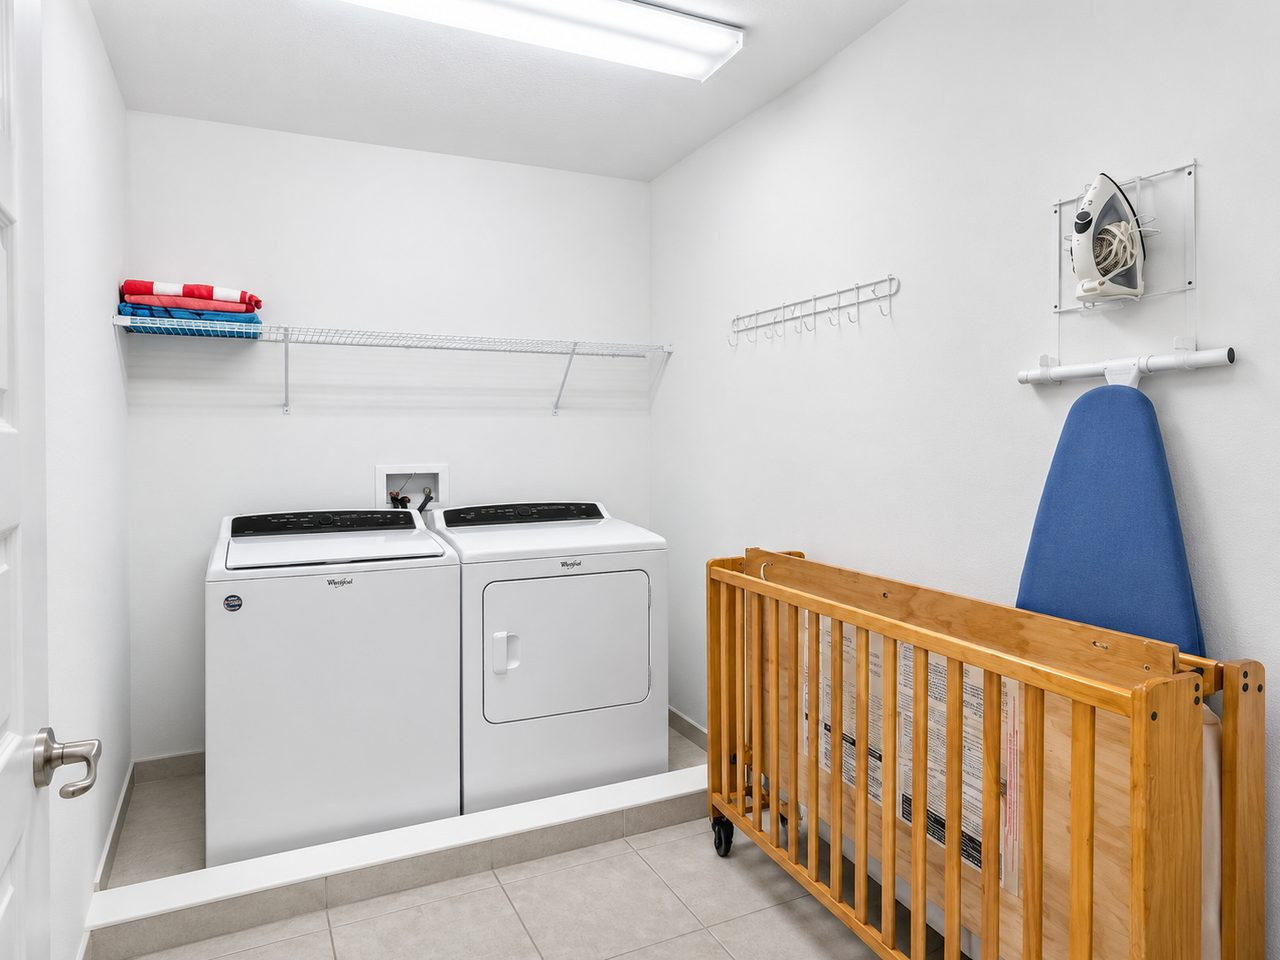
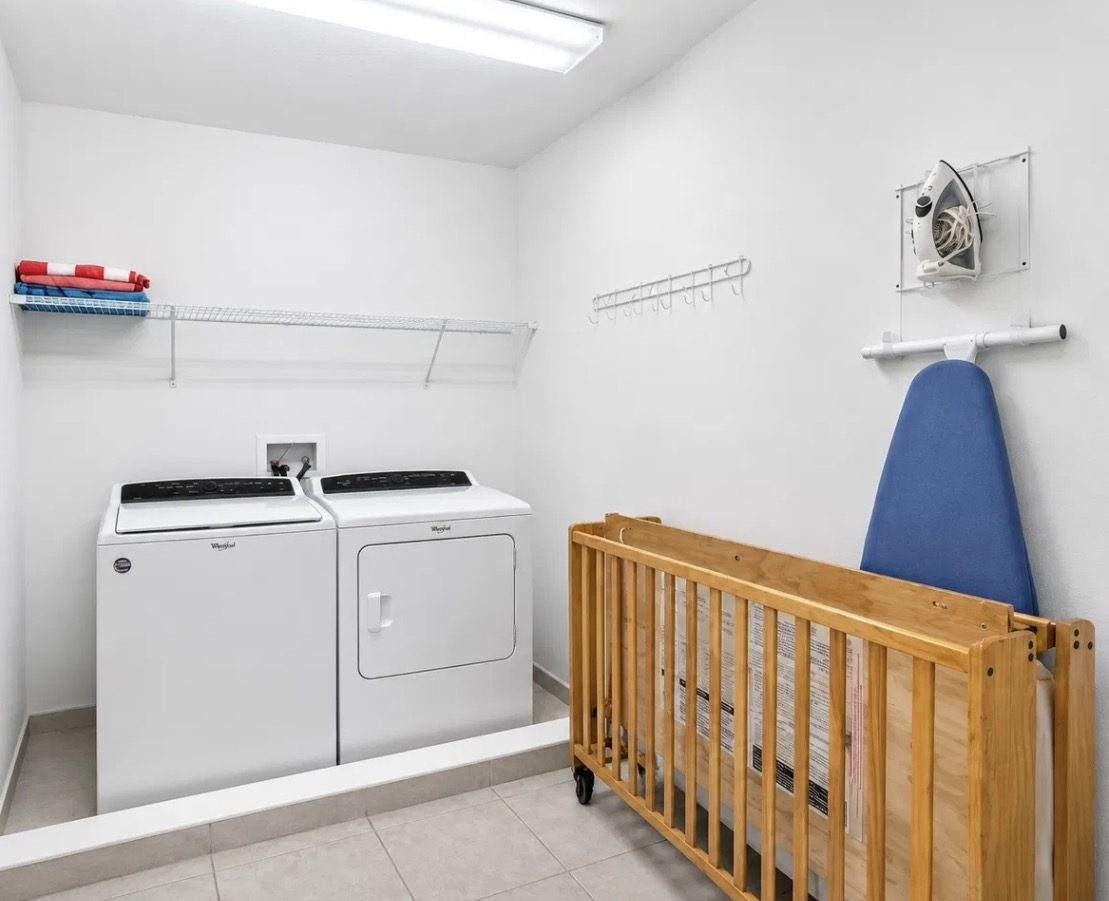
Laundry room: cropped version without the door

diff --git a/index.html b/index.html
@@ -9,7 +9,7 @@
 
   <meta property="og:title" content="Villa Serena · 8-Bedroom Private Pool Villa">
   <meta property="og:description" content="8 bedrooms · 8 bathrooms · 13 beds · private pool. Book your family's Orlando stay direct.">
-  <meta property="og:image" content="assets/img/pool-lanai.jpg?v=13">
+  <meta property="og:image" content="assets/img/pool-lanai.jpg?v=14">
   <meta property="og:type" content="website">
 
   <link rel="icon" href="assets/favicon.svg" type="image/svg+xml">
@@ -17,8 +17,8 @@
   <link rel="preconnect" href="https://fonts.gstatic.com" crossorigin>
   <link href="https://fonts.googleapis.com/css2?family=Newsreader:ital,opsz,wght@0,6..72,400;0,6..72,500;1,6..72,400&family=Instrument+Sans:wght@400;500;600&display=swap" rel="stylesheet">
 
-  <link rel="preload" as="image" href="assets/img/pool-lanai-1616.webp?v=13"
-        imagesrcset="assets/img/pool-lanai-640.webp?v=13 640w, assets/img/pool-lanai-1024.webp?v=13 1024w, assets/img/pool-lanai-1616.webp?v=13 1616w"
+  <link rel="preload" as="image" href="assets/img/pool-lanai-1616.webp?v=14"
+        imagesrcset="assets/img/pool-lanai-640.webp?v=14 640w, assets/img/pool-lanai-1024.webp?v=14 1024w, assets/img/pool-lanai-1616.webp?v=14 1616w"
         imagesizes="100vw" type="image/webp">
   <link rel="stylesheet" href="css/styles.css">
 </head>
@@ -79,9 +79,9 @@
   <div class="hero-media">
     <picture>
       <source type="image/webp"
-              srcset="assets/img/pool-lanai-640.webp?v=13 640w, assets/img/pool-lanai-1024.webp?v=13 1024w, assets/img/pool-lanai-1616.webp?v=13 1616w"
+              srcset="assets/img/pool-lanai-640.webp?v=14 640w, assets/img/pool-lanai-1024.webp?v=14 1024w, assets/img/pool-lanai-1616.webp?v=14 1616w"
               sizes="100vw">
-      <img src="assets/img/pool-lanai.jpg?v=13" alt="The villa's private pool and spa with sun loungers and a covered lanai" width="1616" height="967" fetchpriority="high">
+      <img src="assets/img/pool-lanai.jpg?v=14" alt="The villa's private pool and spa with sun loungers and a covered lanai" width="1616" height="967" fetchpriority="high">
     </picture>
   </div>
   <div class="hero-shade" aria-hidden="true"></div>
@@ -117,14 +117,14 @@
     <div class="welcome-media reveal">
       <figure class="wm-main">
         <picture>
-          <source type="image/webp" srcset="assets/img/exterior-front-640.webp?v=13 640w, assets/img/exterior-front-1024.webp?v=13 1024w, assets/img/exterior-front-1206.webp?v=13 1206w" sizes="(min-width: 960px) 40vw, 90vw">
-          <img src="assets/img/exterior-front.jpg?v=13" alt="Front exterior of the two-storey villa with a paver driveway" width="1206" height="712" loading="lazy" decoding="async">
+          <source type="image/webp" srcset="assets/img/exterior-front-640.webp?v=14 640w, assets/img/exterior-front-1024.webp?v=14 1024w, assets/img/exterior-front-1206.webp?v=14 1206w" sizes="(min-width: 960px) 40vw, 90vw">
+          <img src="assets/img/exterior-front.jpg?v=14" alt="Front exterior of the two-storey villa with a paver driveway" width="1206" height="712" loading="lazy" decoding="async">
         </picture>
       </figure>
       <figure class="wm-accent">
         <picture>
-          <source type="image/webp" srcset="assets/img/dining-living-640.webp?v=13 640w, assets/img/dining-living-1024.webp?v=13 1024w" sizes="(min-width: 960px) 22vw, 50vw">
-          <img src="assets/img/dining-living.jpg?v=13" alt="Open-plan dining area with a large table and the living room beyond" width="2560" height="1920" loading="lazy" decoding="async">
+          <source type="image/webp" srcset="assets/img/dining-living-640.webp?v=14 640w, assets/img/dining-living-1024.webp?v=14 1024w" sizes="(min-width: 960px) 22vw, 50vw">
+          <img src="assets/img/dining-living.jpg?v=14" alt="Open-plan dining area with a large table and the living room beyond" width="2560" height="1920" loading="lazy" decoding="async">
         </picture>
       </figure>
           </div>
@@ -135,15 +135,15 @@
 <section class="photo-band" aria-label="The kitchen and living room">
   <figure>
     <picture>
-      <source type="image/webp" srcset="assets/img/kitchen-640.webp?v=13 640w, assets/img/kitchen-1024.webp?v=13 1024w, assets/img/kitchen-1206.webp?v=13 1206w" sizes="(min-width: 760px) 50vw, 100vw">
-      <img src="assets/img/kitchen.jpg?v=13" alt="Kitchen with dark cabinets, stainless appliances and an island with four bar stools" width="1206" height="711" loading="lazy" decoding="async">
+      <source type="image/webp" srcset="assets/img/kitchen-640.webp?v=14 640w, assets/img/kitchen-1024.webp?v=14 1024w, assets/img/kitchen-1206.webp?v=14 1206w" sizes="(min-width: 760px) 50vw, 100vw">
+      <img src="assets/img/kitchen.jpg?v=14" alt="Kitchen with dark cabinets, stainless appliances and an island with four bar stools" width="1206" height="711" loading="lazy" decoding="async">
     </picture>
     <figcaption>Kitchen</figcaption>
   </figure>
   <figure>
     <picture>
-      <source type="image/webp" srcset="assets/img/living-room-640.webp?v=13 640w, assets/img/living-room-1024.webp?v=13 1024w, assets/img/living-room-1600.webp?v=13 1600w" sizes="(min-width: 760px) 50vw, 100vw">
-      <img src="assets/img/living-room.jpg?v=13" alt="Living room with sectional sofa and sliding doors to the pool" width="2560" height="1920" loading="lazy" decoding="async">
+      <source type="image/webp" srcset="assets/img/living-room-640.webp?v=14 640w, assets/img/living-room-1024.webp?v=14 1024w, assets/img/living-room-1600.webp?v=14 1600w" sizes="(min-width: 760px) 50vw, 100vw">
+      <img src="assets/img/living-room.jpg?v=14" alt="Living room with sectional sofa and sliding doors to the pool" width="2560" height="1920" loading="lazy" decoding="async">
     </picture>
     <figcaption>Living room</figcaption>
   </figure>
@@ -250,20 +250,20 @@
     <div class="villa-band reveal">
       <figure>
         <picture>
-          <source type="image/webp" srcset="assets/img/bedroom-twin-beds-640.webp?v=13 640w, assets/img/bedroom-twin-beds-1024.webp?v=13 1024w, assets/img/bedroom-twin-beds-1600.webp?v=13 1600w" sizes="(min-width: 960px) 33vw, 100vw">
-          <img src="assets/img/bedroom-twin-beds.jpg?v=13" alt="Bedroom with two beds, a tufted headboard and a mustard accent wall" width="2560" height="1920" loading="lazy" decoding="async">
+          <source type="image/webp" srcset="assets/img/bedroom-twin-beds-640.webp?v=14 640w, assets/img/bedroom-twin-beds-1024.webp?v=14 1024w, assets/img/bedroom-twin-beds-1600.webp?v=14 1600w" sizes="(min-width: 960px) 33vw, 100vw">
+          <img src="assets/img/bedroom-twin-beds.jpg?v=14" alt="Bedroom with two beds, a tufted headboard and a mustard accent wall" width="2560" height="1920" loading="lazy" decoding="async">
         </picture>
       </figure>
       <figure>
         <picture>
-          <source type="image/webp" srcset="assets/img/bunk-room-640.webp?v=13 640w, assets/img/bunk-room-1024.webp?v=13 1024w, assets/img/bunk-room-1600.webp?v=13 1600w" sizes="(min-width: 960px) 33vw, 100vw">
-          <img src="assets/img/bunk-room.jpg?v=13" alt="Kids' bunk room with a mural wall" width="2560" height="1920" loading="lazy" decoding="async">
+          <source type="image/webp" srcset="assets/img/bunk-room-640.webp?v=14 640w, assets/img/bunk-room-1024.webp?v=14 1024w, assets/img/bunk-room-1600.webp?v=14 1600w" sizes="(min-width: 960px) 33vw, 100vw">
+          <img src="assets/img/bunk-room.jpg?v=14" alt="Kids' bunk room with a mural wall" width="2560" height="1920" loading="lazy" decoding="async">
         </picture>
       </figure>
       <figure>
         <picture>
-          <source type="image/webp" srcset="assets/img/bathroom-double-vanity-640.webp?v=13 640w, assets/img/bathroom-double-vanity-1024.webp?v=13 1024w, assets/img/bathroom-double-vanity-1206.webp?v=13 1206w" sizes="(min-width: 960px) 33vw, 100vw">
-          <img src="assets/img/bathroom-double-vanity.jpg?v=13" alt="Bathroom with a vanity, glass shower and tub" width="1206" height="701" loading="lazy" decoding="async">
+          <source type="image/webp" srcset="assets/img/bathroom-double-vanity-640.webp?v=14 640w, assets/img/bathroom-double-vanity-1024.webp?v=14 1024w, assets/img/bathroom-double-vanity-1206.webp?v=14 1206w" sizes="(min-width: 960px) 33vw, 100vw">
+          <img src="assets/img/bathroom-double-vanity.jpg?v=14" alt="Bathroom with a vanity, glass shower and tub" width="1206" height="701" loading="lazy" decoding="async">
         </picture>
       </figure>
     </div>
@@ -277,9 +277,9 @@
       <div class="amen-feature reveal">
         <figure class="amen-photo">
           <picture>
-            <source type="image/webp" media="(min-width: 641px) and (max-width: 960px)" srcset="assets/img/pool-deck-640.webp?v=13 640w, assets/img/pool-deck-1024.webp?v=13 1024w, assets/img/pool-deck-1206.webp?v=13 1206w" sizes="100vw">
-            <source type="image/webp" srcset="assets/img/pool-deck-tall-640.webp?v=13 640w, assets/img/pool-deck-tall-1024.webp?v=13 1024w, assets/img/pool-deck-tall-1086.webp?v=13 1086w" sizes="(min-width: 960px) 45vw, 100vw">
-            <img src="assets/img/pool-deck-tall.jpg?v=13" alt="Pool deck with spa, loungers and outdoor dining under a blue sky" width="1086" height="1448" loading="lazy" decoding="async">
+            <source type="image/webp" media="(min-width: 641px) and (max-width: 960px)" srcset="assets/img/pool-deck-640.webp?v=14 640w, assets/img/pool-deck-1024.webp?v=14 1024w, assets/img/pool-deck-1206.webp?v=14 1206w" sizes="100vw">
+            <source type="image/webp" srcset="assets/img/pool-deck-tall-640.webp?v=14 640w, assets/img/pool-deck-tall-1024.webp?v=14 1024w, assets/img/pool-deck-tall-1086.webp?v=14 1086w" sizes="(min-width: 960px) 45vw, 100vw">
+            <img src="assets/img/pool-deck-tall.jpg?v=14" alt="Pool deck with spa, loungers and outdoor dining under a blue sky" width="1086" height="1448" loading="lazy" decoding="async">
           </picture>
           <figcaption>
             <strong>Fully private pool area</strong>
@@ -337,29 +337,29 @@
     <div class="amen-strip reveal" aria-label="More of the villa">
       <figure>
         <picture>
-          <source type="image/webp" srcset="assets/img/sitting-area-640.webp?v=13 640w, assets/img/sitting-area-1024.webp?v=13 1024w, assets/img/sitting-area-1600.webp?v=13 1600w" sizes="(min-width: 960px) 25vw, 70vw">
-          <img src="assets/img/sitting-area.jpg?v=13" alt="Sitting area with two armchairs and large blue and gold artwork" width="2560" height="1920" loading="lazy" decoding="async">
+          <source type="image/webp" srcset="assets/img/sitting-area-640.webp?v=14 640w, assets/img/sitting-area-1024.webp?v=14 1024w, assets/img/sitting-area-1600.webp?v=14 1600w" sizes="(min-width: 960px) 25vw, 70vw">
+          <img src="assets/img/sitting-area.jpg?v=14" alt="Sitting area with two armchairs and large blue and gold artwork" width="2560" height="1920" loading="lazy" decoding="async">
         </picture>
         <figcaption>Sitting area</figcaption>
       </figure>
       <figure>
         <picture>
-          <source type="image/webp" srcset="assets/img/home-theater-640.webp?v=13 640w, assets/img/home-theater-1024.webp?v=13 1024w, assets/img/home-theater-1206.webp?v=13 1206w" sizes="(min-width: 960px) 25vw, 70vw">
-          <img src="assets/img/home-theater.jpg?v=13" alt="Home theater with a large screen and recliner seating" width="1206" height="800" loading="lazy" decoding="async">
+          <source type="image/webp" srcset="assets/img/home-theater-640.webp?v=14 640w, assets/img/home-theater-1024.webp?v=14 1024w, assets/img/home-theater-1206.webp?v=14 1206w" sizes="(min-width: 960px) 25vw, 70vw">
+          <img src="assets/img/home-theater.jpg?v=14" alt="Home theater with a large screen and recliner seating" width="1206" height="800" loading="lazy" decoding="async">
         </picture>
         <figcaption>Home theater</figcaption>
       </figure>
       <figure>
         <picture>
-          <source type="image/webp" srcset="assets/img/game-room-640.webp?v=13 640w, assets/img/game-room-1024.webp?v=13 1024w, assets/img/game-room-1600.webp?v=13 1600w" sizes="(min-width: 960px) 25vw, 70vw">
-          <img src="assets/img/game-room.jpg?v=13" alt="Game room with table tennis, foosball and an arcade cabinet" width="2560" height="1920" loading="lazy" decoding="async">
+          <source type="image/webp" srcset="assets/img/game-room-640.webp?v=14 640w, assets/img/game-room-1024.webp?v=14 1024w, assets/img/game-room-1600.webp?v=14 1600w" sizes="(min-width: 960px) 25vw, 70vw">
+          <img src="assets/img/game-room.jpg?v=14" alt="Game room with table tennis, foosball and an arcade cabinet" width="2560" height="1920" loading="lazy" decoding="async">
         </picture>
         <figcaption>Game room</figcaption>
       </figure>
       <figure>
         <picture>
-          <source type="image/webp" srcset="assets/img/dining-room-640.webp?v=13 640w, assets/img/dining-room-1024.webp?v=13 1024w, assets/img/dining-room-1600.webp?v=13 1600w" sizes="(min-width: 960px) 25vw, 70vw">
-          <img src="assets/img/dining-room.jpg?v=13" alt="Dining room with a large white table and chandelier" width="2560" height="1920" loading="lazy" decoding="async">
+          <source type="image/webp" srcset="assets/img/dining-room-640.webp?v=14 640w, assets/img/dining-room-1024.webp?v=14 1024w, assets/img/dining-room-1600.webp?v=14 1600w" sizes="(min-width: 960px) 25vw, 70vw">
+          <img src="assets/img/dining-room.jpg?v=14" alt="Dining room with a large white table and chandelier" width="2560" height="1920" loading="lazy" decoding="async">
         </picture>
         <figcaption>Dining</figcaption>
       </figure>
@@ -431,8 +431,8 @@
 <section class="book" id="book">
   <div class="book-media" aria-hidden="true">
     <picture>
-      <source type="image/webp" srcset="assets/img/exterior-front-640.webp?v=13 640w, assets/img/exterior-front-1024.webp?v=13 1024w, assets/img/exterior-front-1206.webp?v=13 1206w" sizes="100vw">
-      <img src="assets/img/exterior-front.jpg?v=13" alt="" width="1206" height="712" loading="lazy" decoding="async">
+      <source type="image/webp" srcset="assets/img/exterior-front-640.webp?v=14 640w, assets/img/exterior-front-1024.webp?v=14 1024w, assets/img/exterior-front-1206.webp?v=14 1206w" sizes="100vw">
+      <img src="assets/img/exterior-front.jpg?v=14" alt="" width="1206" height="712" loading="lazy" decoding="async">
     </picture>
   </div>
   <div class="book-shade" aria-hidden="true"></div>

diff --git a/js/main.js b/js/main.js
@@ -37,7 +37,7 @@ const PHOTOS = [
   { slug: "bedroom-two-beds",      cat: "bedrooms",  caption: "Bedroom",                            w: 2560 },
   { slug: "sitting-area",          cat: "living",    caption: "Sitting area",                       w: 2560 },
   { slug: "workspace",             cat: "living",    caption: "Workspace",                          w: 1448, ws: [640, 1024, 1448] },
-  { slug: "laundry-room",          cat: "living",    caption: "Laundry room",                       w: 1448, ws: [640, 1024, 1448] },
+  { slug: "laundry-room",          cat: "living",    caption: "Laundry room",                       w: 1109, ws: [640, 1024, 1109] },
   { slug: "bathroom-vanity",       cat: "bathrooms", caption: "Bathroom",                           w: 1448, ws: [640, 1024, 1448] },
   { slug: "bathroom-walk-in-shower",cat: "bathrooms",caption: "Bathroom",                           w: 2560 },
   { slug: "bathroom-shower",       cat: "bathrooms", caption: "Bathroom",                           w: 2560 },
@@ -45,7 +45,7 @@ const PHOTOS = [
 ];
 const INITIAL_COUNT = 4;
 const IMG = "assets/img/";
-const IMG_V = "?v=13"; // bump when photos change so browsers fetch the new files
+const IMG_V = "?v=14"; // bump when photos change so browsers fetch the new files
 
 const widthsFor = (p) => p.ws || (p.w > 1206 ? [640, 1024, 1600, 2200] : [640, 1024, 1206]);
 const srcset = (p, max = Infinity) =>

diff --git a/README.md b/README.md
@@ -104,4 +104,4 @@ it, then repeat the polish and the wall recolour.
 
 Browsers keep photos for a day (see `vercel.json`). When a photo changes, bump the
 version tag so visitors get the new file right away: `IMG_V` at the top of `js/main.js`
-and every `?v=` in `index.html` (find and replace `?v=13` with `?v=14`).
+and every `?v=` in `index.html` (find and replace `?v=14` with `?v=15`).
